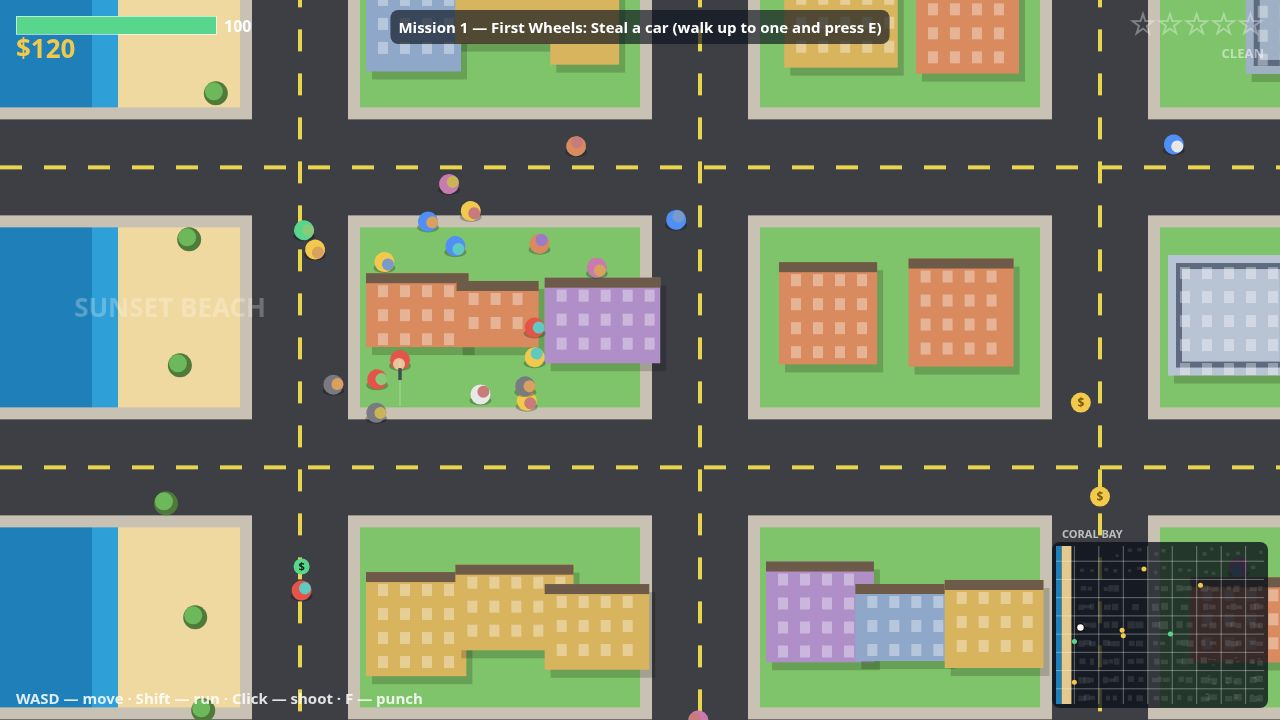
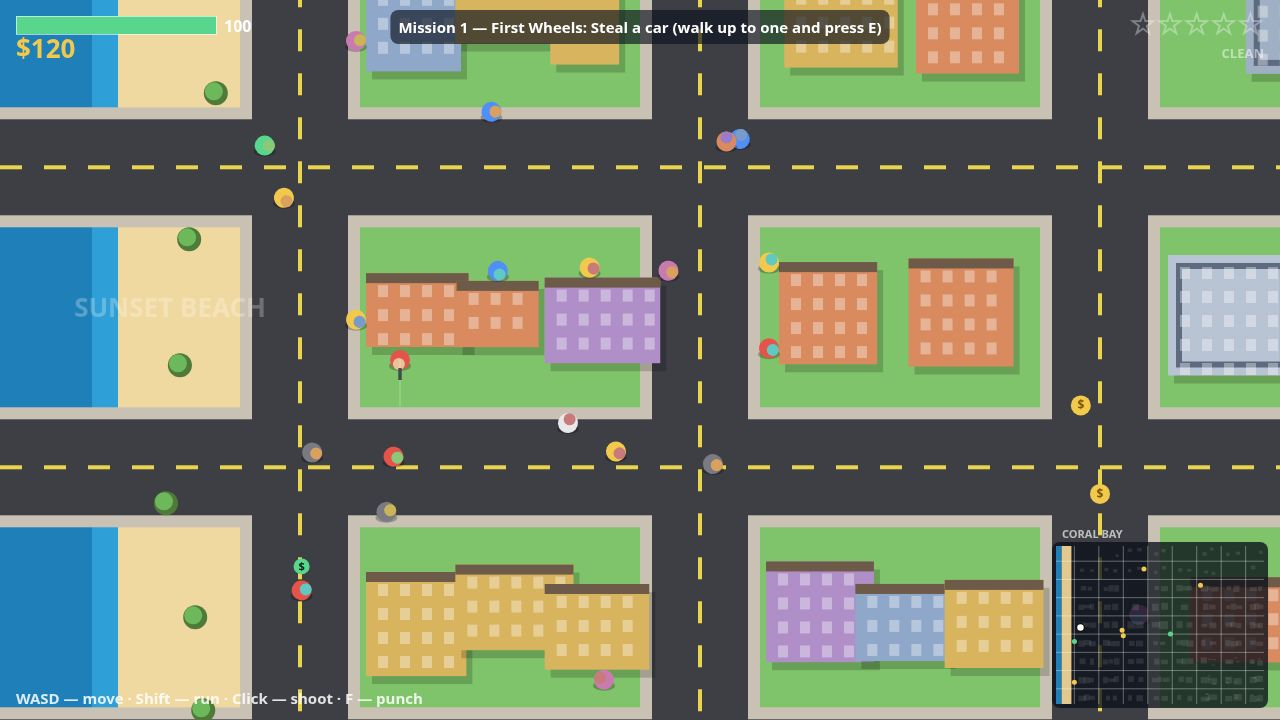
Repaint shot scenes every frame (resize no longer blanks screenshots); spread city-shot pedestrians; update shots.json

diff --git a/game/src/shots.js b/game/src/shots.js
@@ -48,9 +48,10 @@ function addPoliceBehind(state, x, y, count) {
   }
 }
 
-function addPedsNear(state, x, y, count) {
+function addPedsNear(state, x, y, count, spread) {
+  const s = spread || 320;
   for (let i = 0; i < count; i += 1) {
-    const ped = makePed(state.random, x + (state.random() - 0.5) * 320, y + (state.random() - 0.5) * 260);
+    const ped = makePed(state.random, x + (state.random() - 0.5) * s, y + (state.random() - 0.5) * (s * 0.8));
     state.peds.push(ped);
   }
 }
@@ -109,8 +110,8 @@ export function stageShot(name, state) {
   p.y = 1300;
   p.angle = Math.PI / 2;
   p.aimAngle = Math.PI / 2;
-  addPedsNear(state, 400, 1300, 14);
-  addPedsNear(state, 400, 1300, 4);
-  for (let i = 0; i < 90; i += 1) updateGame(state, idleSnap(), STEP);
+  addPedsNear(state, 400, 1300, 14, 700);
+  addPedsNear(state, 400, 1300, 4, 200);
+  for (let i = 0; i < 240; i += 1) updateGame(state, idleSnap(), STEP);
   return { screen: SCREEN_PLAY };
 }

diff --git a/game/src/main.js b/game/src/main.js
@@ -72,12 +72,14 @@ function runShot(name) {
   const scene = stageShot(name, state);
   window.__game = { state, screen: scene.screen };
   let painted = 0;
+  // Keep painting on every frame (not just twice): a resize after the first
+  // paints resets the canvas to transparent, and a later frame must repaint it.
   function paint() {
     renderer.draw(state, scene.screen, {});
     hud.draw(canvas.getContext('2d'), state);
     painted += 1;
-    if (painted < 2) requestAnimationFrame(paint);
-    else window.__shotReady = true;
+    if (painted === 2) window.__shotReady = true;
+    requestAnimationFrame(paint);
   }
   requestAnimationFrame(paint);
 }
